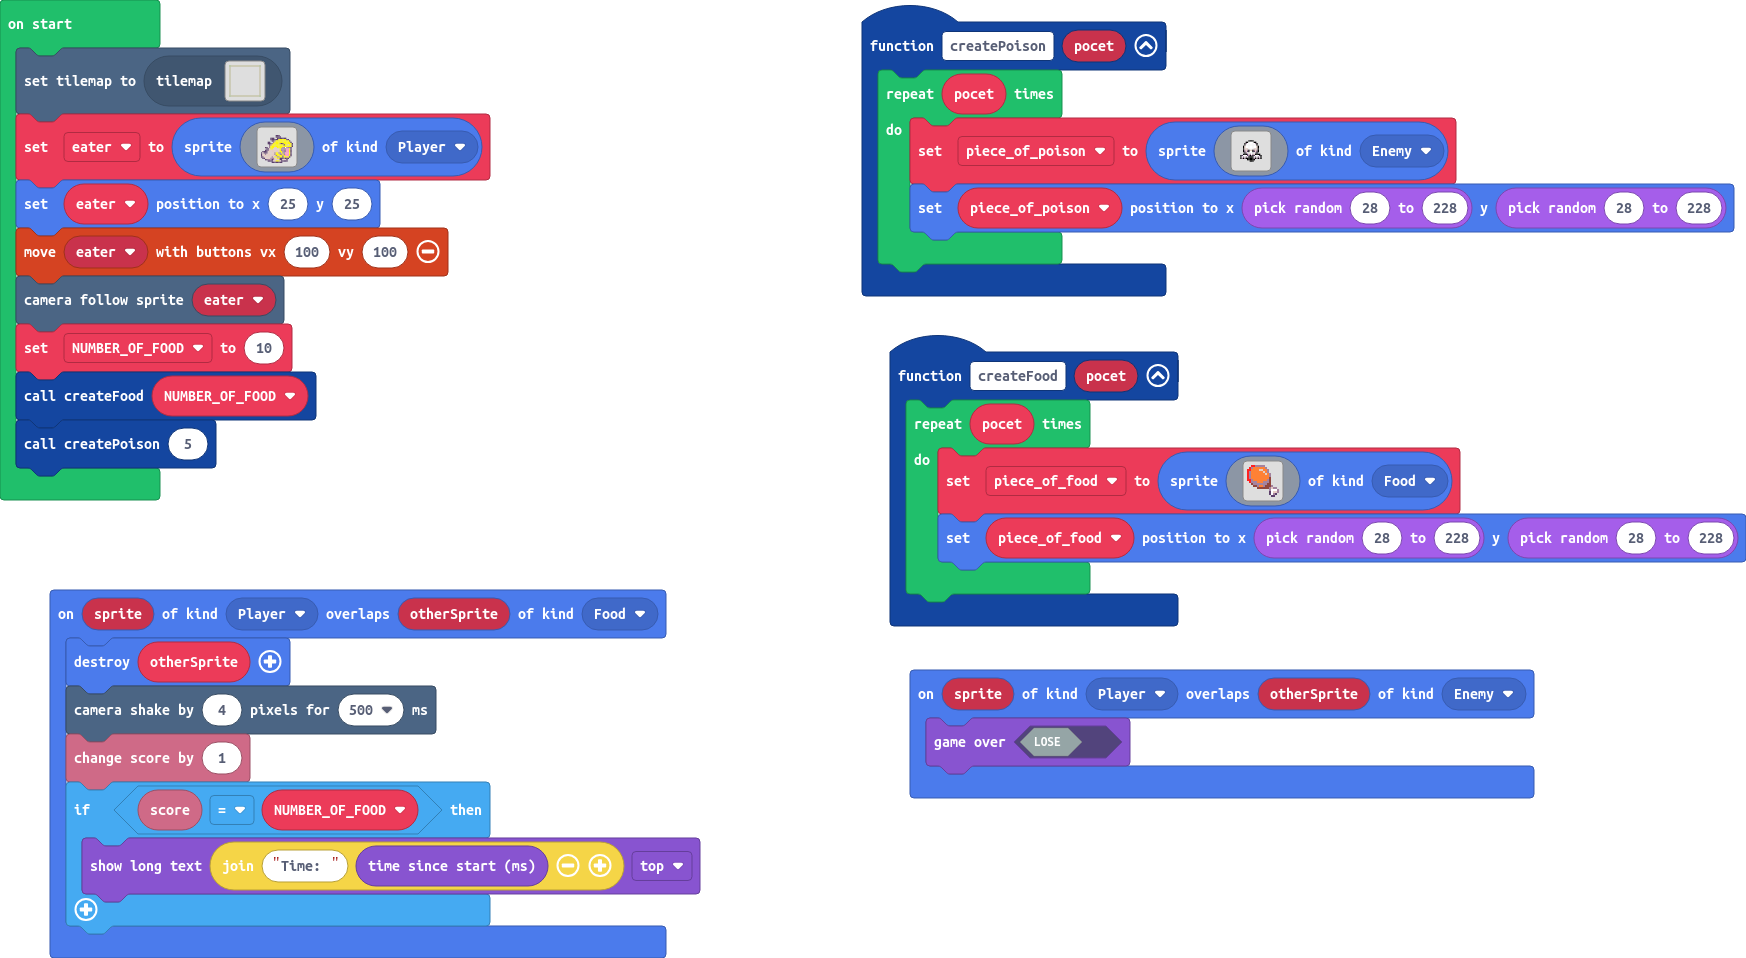
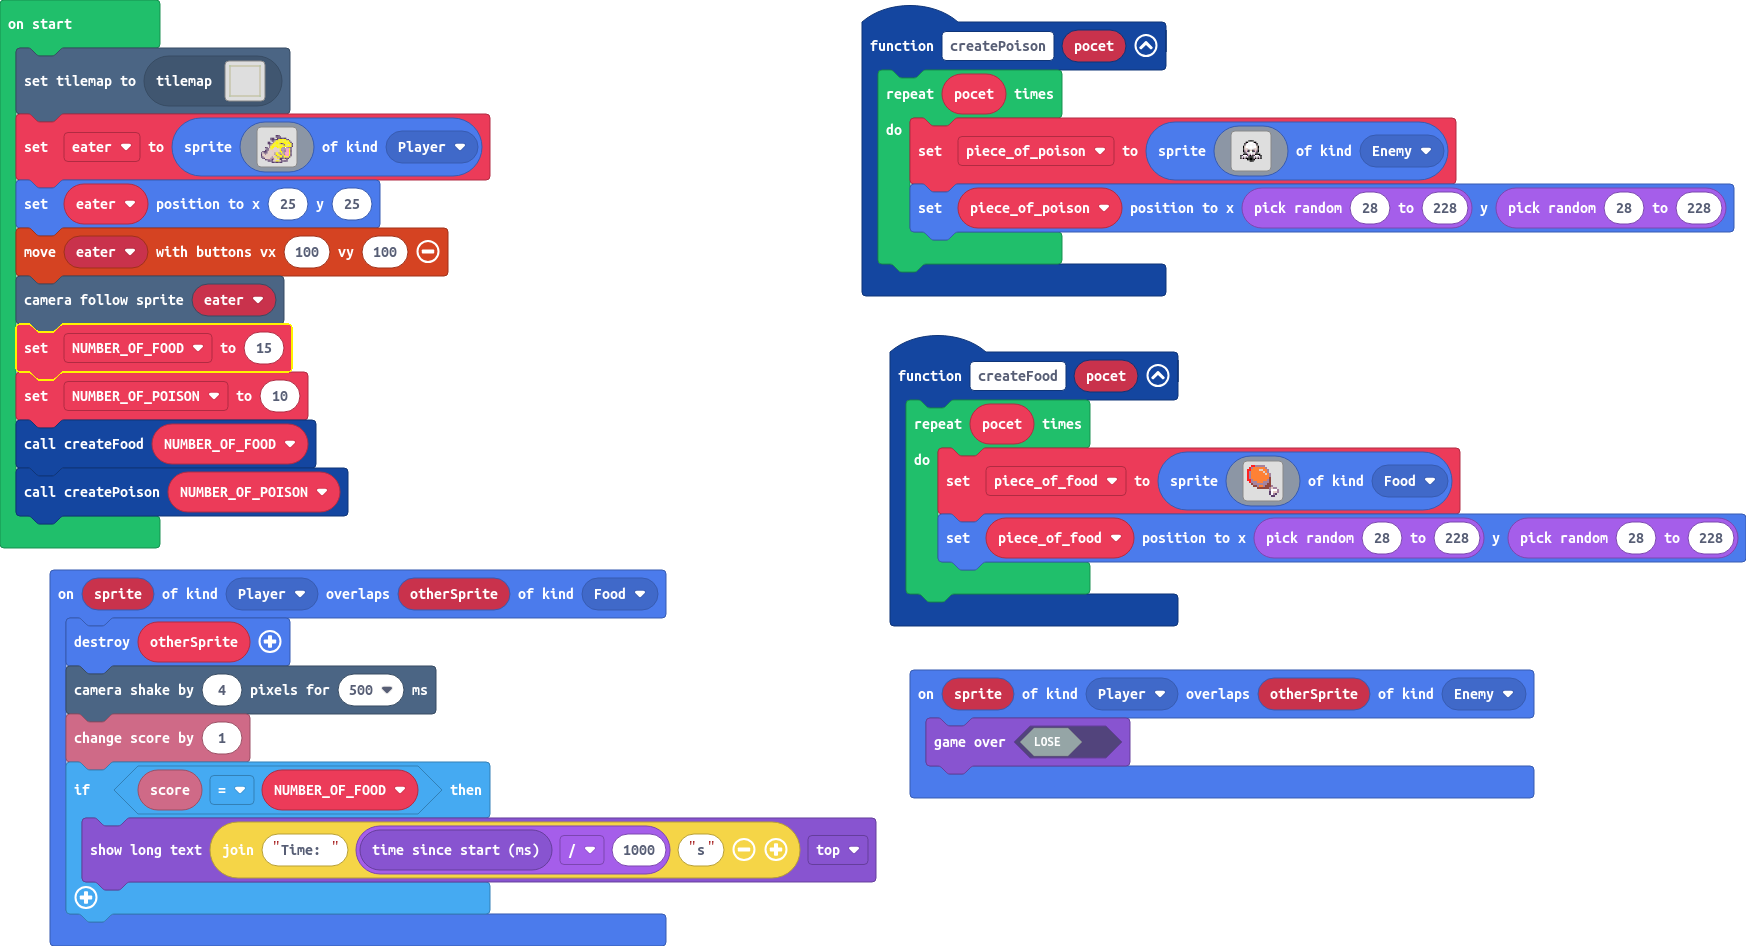
Update main.blocks, main.ts, tilemap.g.jres, tilemap.g.ts

Changed region(s): [[0.4948, 0.0307, 1.0, 0.8584], [0.0, 0.0613, 0.5258, 0.9503], [0.0309, 0.0613, 0.0619, 0.092]]

diff --git a/tilemap.g.ts b/tilemap.g.ts
@@ -87,6 +87,25 @@ namespace myTiles {
 . . . . . . . . . . . . . . . . 
 . . . . . . . . . . . . . . . . 
 `, [myTiles.transparency16], TileScale.Sixteen);
+            case "level5":
+            case "level5":return tiles.createTilemap(hex`1000100000000000000000000000000000000000000000000000000000000000000000000000000000000000000000000000000000000000000000000000000000000000000000000000000000000000000000000000000000000000000000000000000000000000000000000000000000000000000000000000000000000000000000000000000000000000000000000000000000000000000000000000000000000000000000000000000000000000000000000000000000000000000000000000000000000000000000000000000000000000000000000000000000000000000000000000000000000000000000000000000000000000000000000000000000000000`, img`
+. . . . . . . . . . . . . . . . 
+. . . . . . . . . . . . . . . . 
+. . . . . . . . . . . . . . . . 
+. . . . . . . . . . . . . . . . 
+. . . . . . . . . . . . . . . . 
+. . . . . . . . . . . . . . . . 
+. . . . . . . . . . . . . . . . 
+. . . . . . . . . . . . . . . . 
+. . . . . . . . . . . . . . . . 
+. . . . . . . . . . . . . . . . 
+. . . . . . . . . . . . . . . . 
+. . . . . . . . . . . . . . . . 
+. . . . . . . . . . . . . . . . 
+. . . . . . . . . . . . . . . . 
+. . . . . . . . . . . . . . . . 
+. . . . . . . . . . . . . . . . 
+`, [myTiles.transparency16], TileScale.Sixteen);
         }
         return null;
     })

diff --git a/main.ts b/main.ts
@@ -57,7 +57,7 @@ sprites.onOverlap(SpriteKind.Player, SpriteKind.Food, function (sprite, otherSpr
     scene.cameraShake(4, 500)
     info.changeScoreBy(1)
     if (info.score() == NUMBER_OF_FOOD) {
-        game.showLongText("Time: " + game.runtime(), DialogLayout.Top)
+        game.showLongText("Time: " + game.runtime() / 1000 + "s", DialogLayout.Top)
     }
 })
 sprites.onOverlap(SpriteKind.Player, SpriteKind.Enemy, function (sprite, otherSprite) {
@@ -71,6 +71,7 @@ let eater = sprites.create(assets.image`Eater`, SpriteKind.Player)
 eater.setPosition(25, 25)
 controller.moveSprite(eater, 100, 100)
 scene.cameraFollowSprite(eater)
-NUMBER_OF_FOOD = 10
+NUMBER_OF_FOOD = 15
+let NUMBER_OF_POISON = 10
 createFood(NUMBER_OF_FOOD)
-createPoison(5)
+createPoison(NUMBER_OF_POISON)
